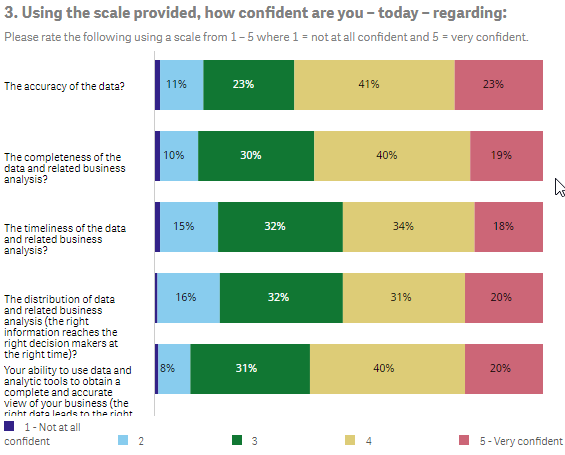
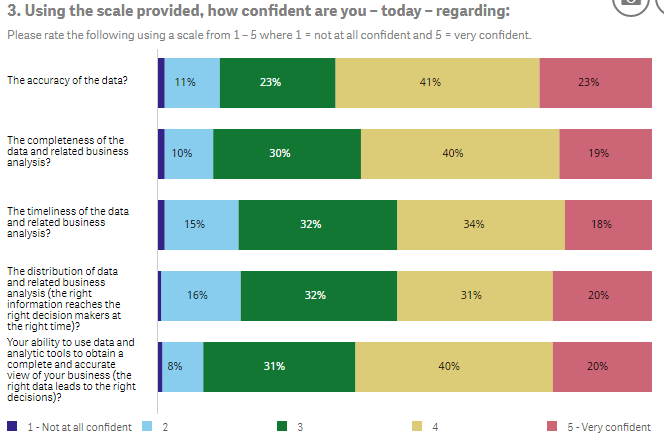
vertically center labels fix

diff --git a/senseui-barchart.js b/senseui-barchart.js
@@ -418,9 +418,10 @@ define([
 				.selectAll("text")  
 					.style("text-anchor", "start")
 					.attr("x", "-"+vars.label.width)
-					.attr("y", (vars.bar.height+(vars.bar.padding*2))/2)
-					// .attr("y", 15)
+					// .attr("y", (vars.bar.height+(vars.bar.padding*2))/2)
+					.attr("y", 15)
 					.attr('style', 'fill:' + vars.color + '; font-size:' + vars.fontSize + ';')
+					.attr("dominant-baseline", "central")
 					.call(wrap, vars.label.width);
 		}
 
@@ -457,6 +458,17 @@ define([
 						line = [word];
 						tspan = text.append("tspan").attr("x", -vars.label.width).attr("y", y).attr("dy", lineNumber * lineHeight + dy + "em").text(word);
 					}
+				}
+				if (vars.bar.height>text[0][0].clientHeight) {
+					var textY = (parseInt(y)+(vars.bar.height-text[0][0].clientHeight))/2 + 2;
+					$(this).find("tspan").each(function() {
+						$(this).attr('y',textY);
+					})
+				} else if (vars.bar.height<text[0][0].clientHeight) {
+					var textY = parseInt(y)-(text[0][0].clientHeight-vars.bar.height)/2;
+					$(this).find("tspan").each(function() {
+						$(this).attr('y',textY);
+					})
 				}
 			});
 		}
